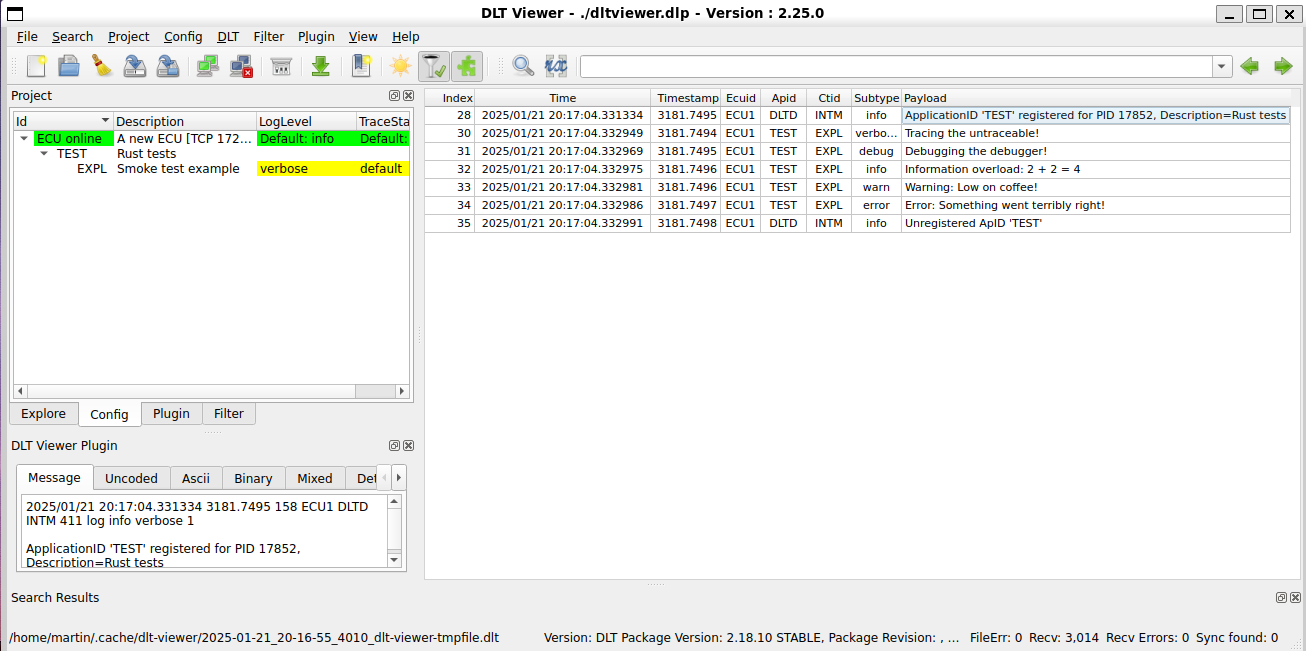
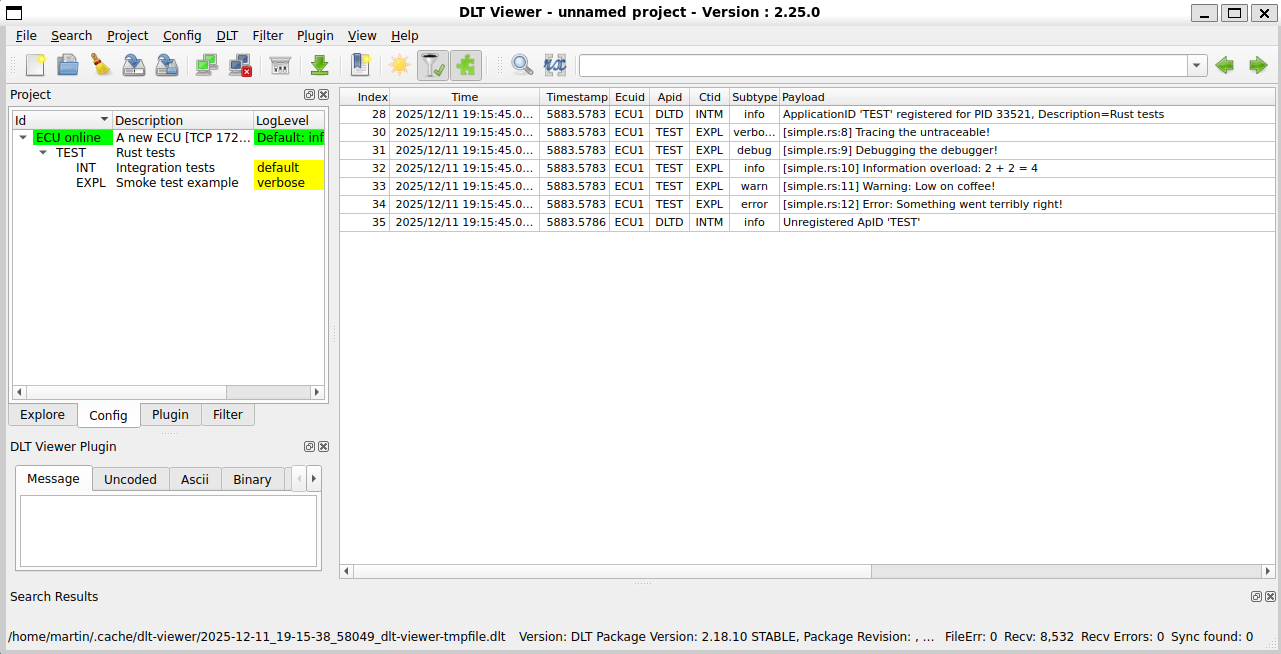
Add tests using dlt-receive (#76)
so far we did not test that dlt data is actually sent to dlt daemon.

Changed region(s): [[0.0, 0.0, 0.9992, 1.0], [0.3435, 0.0, 0.6557, 0.0307], [0.9368, 0.0, 0.9992, 0.0307]]

diff --git a/src/lib.rs b/src/lib.rs
@@ -103,11 +103,11 @@ DLT_LOCAL_PRINT_MODE=FORCE_ON DLT_INITIAL_LOG_LEVEL="::6" cargo run --example si
 The output will look like this:
 
 ```text
-2025/01/21 19:12:22.090974   28995094 000 ECU1 TEST EXPL log verbose V 1 [Tracing the untraceable!]
-2025/01/21 19:12:22.091176   28995096 001 ECU1 TEST EXPL log debug V 1 [Debugging the debugger!]
-2025/01/21 19:12:22.091248   28995097 002 ECU1 TEST EXPL log info V 1 [Information overload: 2 + 2 = 4]
-2025/01/21 19:12:22.091284   28995097 003 ECU1 TEST EXPL log warn V 1 [Warning: Low on coffee!]
-2025/01/21 19:12:22.091336   28995097 004 ECU1 TEST EXPL log error V 1 [Error: Something went terribly right!]
+2025/12/11 18:13:51.456738   57739781 000 ECU1 TEST EXPL log verbose V 1 [[simple.rs:8] Tracing the untraceable!]
+2025/12/11 18:13:51.456809   57739782 001 ECU1 TEST EXPL log debug V 1 [[simple.rs:9] Debugging the debugger!]
+2025/12/11 18:13:51.456888   57739783 002 ECU1 TEST EXPL log info V 1 [[simple.rs:10] Information overload: 2 + 2 = 4]
+2025/12/11 18:13:51.456931   57739783 003 ECU1 TEST EXPL log warn V 1 [[simple.rs:11] Warning: Low on coffee!]
+2025/12/11 18:13:51.456989   57739784 004 ECU1 TEST EXPL log error V 1 [[simple.rs:12] Error: Something went terribly right!]
 ```
 
 # Errors
@@ -303,5 +303,80 @@ mod tests {
         // always needs be enabled as this is handled by DLT
         let metadata = Metadata::builder().level(Level::max()).build();
         assert!(logger.enabled(&metadata));
+    }
+
+    #[test]
+    fn test_log() {
+        let logger = DltLogger { ctx: null_mut() };
+
+        let record = Record::builder()
+            .args(format_args!("Test log message"))
+            .level(Level::Info)
+            .file(Some("test_file.rs"))
+            .line(Some(42))
+            .build();
+
+        // just ensure that log does not panic
+        logger.log(&record);
+    }
+
+    #[test]
+    fn test_log_empty_values() {
+        let logger = DltLogger { ctx: null_mut() };
+
+        let record = Record::builder()
+            .args(format_args!(""))
+            .level(Level::Info)
+            .file(None)
+            .line(None)
+            .build();
+
+        // just ensure that log does not panic
+        logger.log(&record);
+    }
+
+    #[test]
+    fn test_log_paths() {
+        let logger = DltLogger { ctx: null_mut() };
+
+        let record = Record::builder()
+            .args(format_args!(""))
+            .level(Level::Info)
+            .file(Some("/my/test/path"))
+            .line(None)
+            .build();
+
+        // just ensure that log does not panic
+        logger.log(&record);
+    }
+
+    #[test]
+    fn test_log_paths_2() {
+        let logger = DltLogger { ctx: null_mut() };
+
+        let record = Record::builder()
+            .args(format_args!(""))
+            .level(Level::Info)
+            .file(Some("path/"))
+            .line(None)
+            .build();
+
+        // just ensure that log does not panic
+        logger.log(&record);
+    }
+
+    #[test]
+    fn test_log_paths_3() {
+        let logger = DltLogger { ctx: null_mut() };
+
+        let record = Record::builder()
+            .args(format_args!(""))
+            .level(Level::Info)
+            .file(Some("/"))
+            .line(None)
+            .build();
+
+        // just ensure that log does not panic
+        logger.log(&record);
     }
 }

diff --git a/tests/log.rs b/tests/log.rs
@@ -1,16 +1,51 @@
 use dlt_log::init;
+use regex::Regex;
+use std::process::Command;
 
 #[test]
 fn log_test() {
-    assert!(init("TEST", "Rust tests", "INT", "Integration tests").is_ok());
+    let app_id = "TEST";
+    let context_id = "INT";
+    assert!(init(app_id, "Rust tests", context_id, "Integration tests").is_ok());
+
     log::error!("Test error");
     log::warn!("Test warn");
-    log::info!("Test info");
+    let info_test_msg = "Test info";
+    let info_log_line_number = line!() + 1;
+    log::info!("{}", info_test_msg);
     log::debug!("Test debug");
     log::trace!("Test trace");
 
     // no panic when providing invalid c-string
-    let x: [u8; 5] = [0, b'T', b'E', b'S', b'T'];
-    let str_with_null: &str = std::str::from_utf8(&x).unwrap();
-    log::info!("{}", str_with_null);
+    // let x: [u8; 5] = [0, b'T', b'E', b'S', b'T'];
+    //let str_with_null: &str = std::str::from_utf8(&x).unwrap();
+    //log::info!("{}", str_with_null);
+    //    2025/12/11 17:50:20.681635   43991829 003 ECU1 TEST INT- log info V 1 [ERROR: NulError when converting log message from Rust to C.]
+
+    // get data
+    let dlt_receive = Command::new("timeout")
+        .arg("1")
+        .arg("dlt-receive")
+        .arg("-a")
+        .arg("localhost")
+        .output()
+        .expect("failed to execute dlt-receive");
+
+    // dlt running?
+    if !String::from_utf8_lossy(&dlt_receive.stderr).contains("failed to connect") {
+        let stdout = String::from_utf8_lossy(&dlt_receive.stdout);
+
+        // 2025/12/11 17:50:20.681606   43991828 000 ECU1 TEST INT- log info V 1 [[log.rs:13] Test info]
+        let pattern = format!(
+            r"{} {}.*info.*\[log\.rs:{}\] {}",
+            app_id,
+            context_id,
+            info_log_line_number,
+            regex::escape(info_test_msg)
+        );
+        assert!(
+            Regex::new(&pattern).unwrap().is_match(&stdout),
+            "info message not found in stdout"
+        );
+    }
 }

diff --git a/tests/log_nulerror.rs b/tests/log_nulerror.rs
@@ -1,0 +1,11 @@
+use dlt_log::init;
+
+#[test]
+fn log_test_nulerror() {
+    assert!(init("TEST", "Rust tests", "INT", "Integration tests").is_ok());
+
+    // no panic when providing invalid c-string
+    let x: [u8; 5] = [0, b'T', b'E', b'S', b'T'];
+    let str_with_null: &str = std::str::from_utf8(&x).unwrap();
+    log::info!("{}", str_with_null);
+}

diff --git a/README.md b/README.md
@@ -2,7 +2,7 @@
 
 This crate is a [`log`](https://docs.rs/log) adapter for integrating with the Diagnostic Log and Trace (DLT) system.
 
-It provides functionality to register applications and contexts with the DLT daemon and implements a logger that sends log messages to the DLT system. 
+It provides functionality to register applications and contexts with the DLT daemon and implements a logger that sends log messages to the DLT system.
 The library is designed to be used with the standard [`log`](https://docs.rs/log) crate, which provides a flexible logging API for Rust applications.
 
 The DLT system is a flexible and scalable logging framework that is widely used in the automotive industry for logging and tracing in embedded systems.
@@ -88,7 +88,7 @@ cargo build --release --target aarch64-unknown-linux-gnu
 
 ## Log levels
 
-The log levels and logging backend are configured by the DLT system. 
+The log levels and logging backend are configured by the DLT system.
 For configuration, follow the [DLT documentation](https://github.com/COVESA/dlt-daemon/blob/master/doc/dlt_for_developers.md).
 
 For example, to enable all log levels, set the `DLT_INITIAL_LOG_LEVEL` environment variable to `::6`.
@@ -110,11 +110,11 @@ DLT_LOCAL_PRINT_MODE=FORCE_ON DLT_INITIAL_LOG_LEVEL="::6" cargo run --example si
 The output will look like this:
 
 ```text
-2025/01/21 19:12:22.090974   28995094 000 ECU1 TEST EXPL log verbose V 1 [Tracing the untraceable!]
-2025/01/21 19:12:22.091176   28995096 001 ECU1 TEST EXPL log debug V 1 [Debugging the debugger!]
-2025/01/21 19:12:22.091248   28995097 002 ECU1 TEST EXPL log info V 1 [Information overload: 2 + 2 = 4]
-2025/01/21 19:12:22.091284   28995097 003 ECU1 TEST EXPL log warn V 1 [Warning: Low on coffee!]
-2025/01/21 19:12:22.091336   28995097 004 ECU1 TEST EXPL log error V 1 [Error: Something went terribly right!]
+2025/12/11 18:13:51.456738   57739781 000 ECU1 TEST EXPL log verbose V 1 [[simple.rs:8] Tracing the untraceable!]
+2025/12/11 18:13:51.456809   57739782 001 ECU1 TEST EXPL log debug V 1 [[simple.rs:9] Debugging the debugger!]
+2025/12/11 18:13:51.456888   57739783 002 ECU1 TEST EXPL log info V 1 [[simple.rs:10] Information overload: 2 + 2 = 4]
+2025/12/11 18:13:51.456931   57739783 003 ECU1 TEST EXPL log warn V 1 [[simple.rs:11] Warning: Low on coffee!]
+2025/12/11 18:13:51.456989   57739784 004 ECU1 TEST EXPL log error V 1 [[simple.rs:12] Error: Something went terribly right!]
 ```
 
 ## License

diff --git a/CONTRIBUTING.md b/CONTRIBUTING.md
@@ -27,5 +27,5 @@ To manually start the DLT daemon, run `dlt-daemon -d`.
 Full CI tests can be executed by calling the script `./scripts/ci.sh`.
 
 ## Code coverage
-To update the code coverage data, run `./scripts/update-lcov.sh`. 
+To update the code coverage data, run `./scripts/update-lcov.sh`.
 In Visual Studio Code, you can use the `ryanluker.vscode-coverage-gutters` extension to display the coverage information in the editor.

diff --git a/.github/copilot-instructions.md b/.github/copilot-instructions.md
@@ -23,7 +23,7 @@ Always reference these instructions first and fallback to search or bash command
 ### Testing
 **IMPORTANT**: Tests interact with the DLT daemon and require specific setup.
 
-- **Tests without DLT daemon**: 
+- **Tests without DLT daemon**:
   - Stop daemon: `killall --wait dlt-daemon || true`
   - Run specific test: `cargo test --test init_ok` -- takes 11 seconds. NEVER CANCEL. Set timeout to 60+ seconds.
 

diff --git a/.github/.copilot-commit-message-instructions.md b/.github/.copilot-commit-message-instructions.md
@@ -1,3 +1,3 @@
-First line shall have no more than 50 characters and summarize the whole commit. 
-Second line is blank. 
+First line shall have no more than 50 characters and summarize the whole commit.
+Second line is blank.
 All following lines shall have no more than 72 characters.
